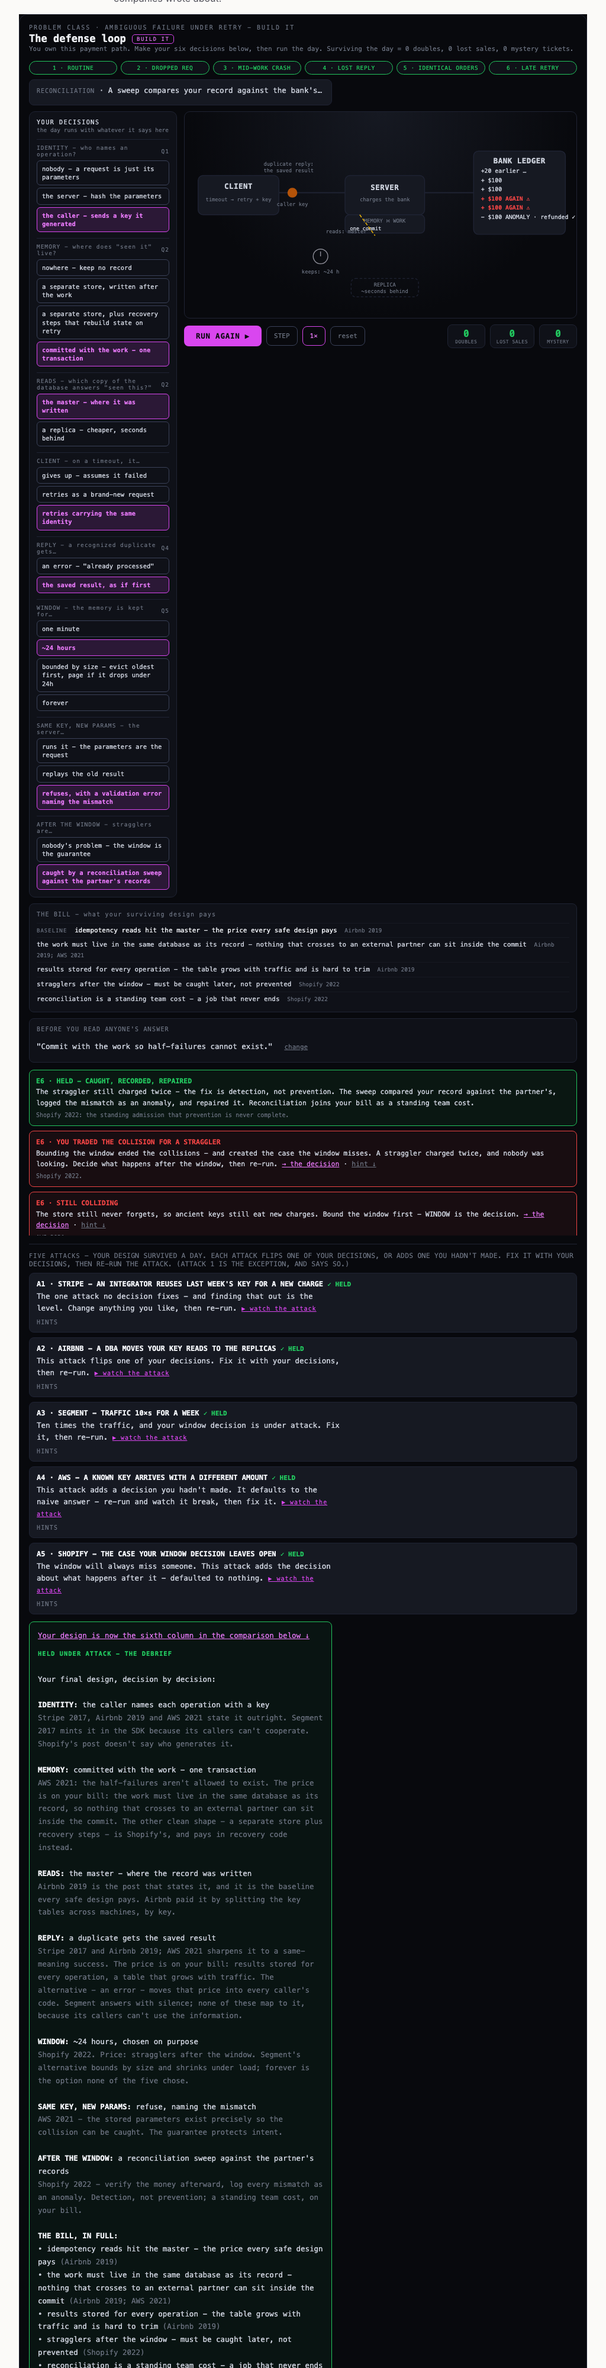
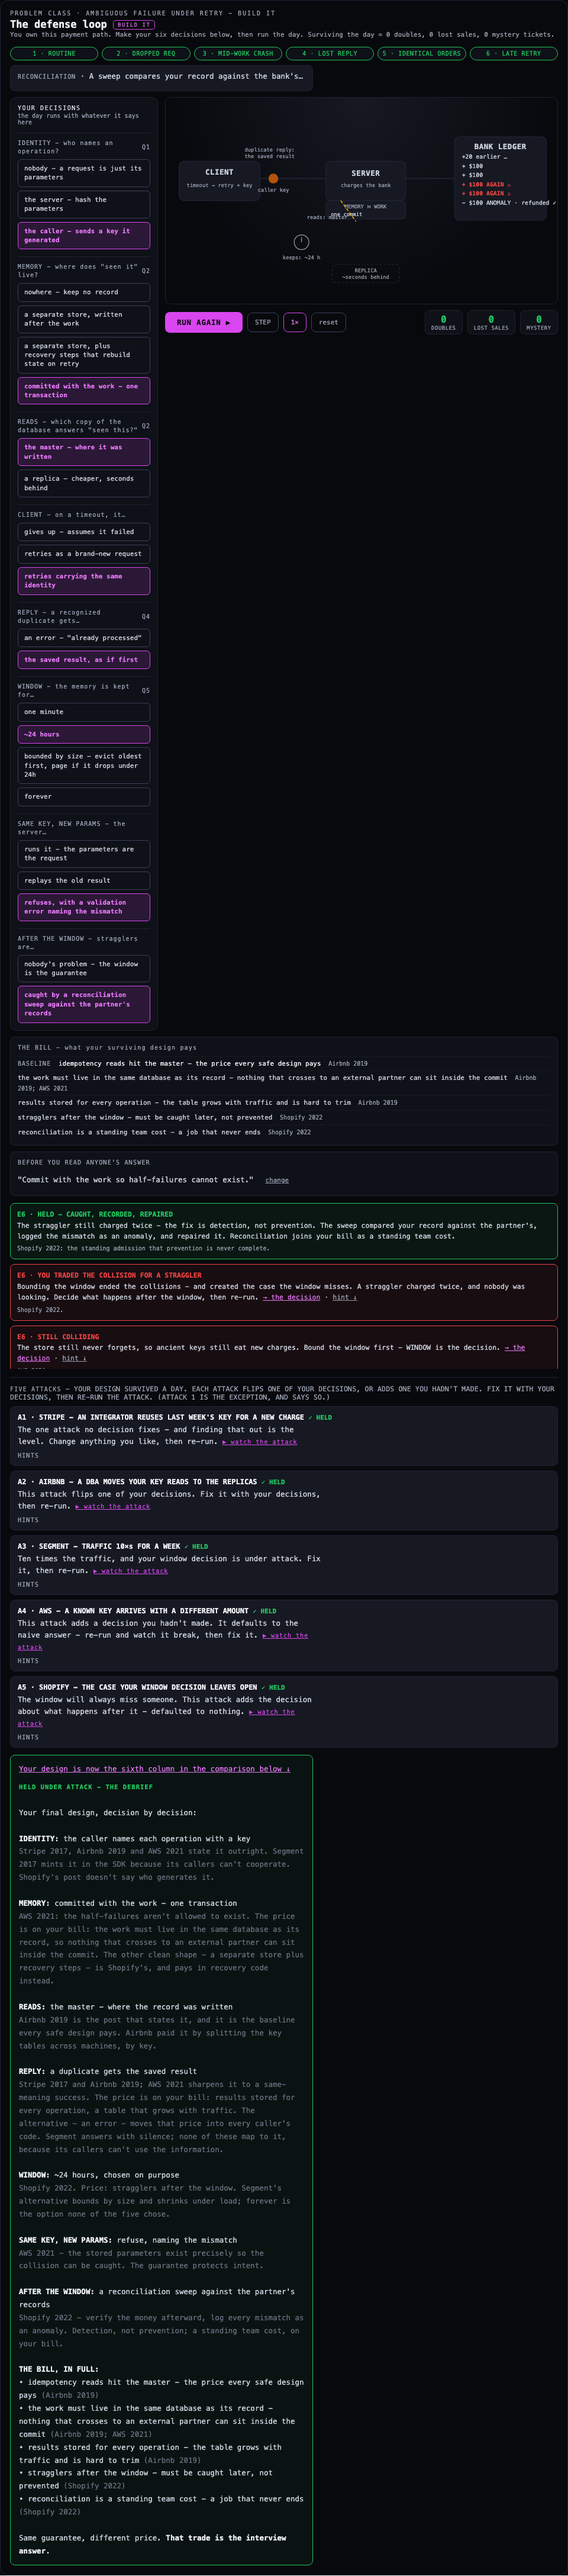
docs(problems): regenerate the v7.3 port screenshots; record the follow-up
Every artifact-state frame in handoff/screenshots/v7.3-port/ was blank: a
full-page Playwright capture does not paint an out-of-process sandboxed
iframe. The set is re-captured as element screenshots inside a viewport
tall enough for the element (phone mission frames keep the 780px viewport
so the 90dvh scrollport shows as a phone sees it), after the reset fix and
the legibility pass. README notes the method; the progress tracker records
the follow-up.

diff --git a/context/progress-tracker.md b/context/progress-tracker.md
@@ -4,6 +4,32 @@ Update this file after every meaningful implementation change.
 
 ## Current Phase
 
+- **Problem-page v7.3 port — follow-up: artifact spacing + legibility
+  (2026-09-06, branch `fix/problem-tryit-reset-specificity`, after PR #2
+  merged).** Owner reported the try-it looking off on the PR preview and
+  the mission's text hard to read.
+  - **Bug:** the try-it's CSS reset was scoped as `#tryit-root *`, an ID
+    selector that outranks every class rule, so every padding and margin
+    in the artifact collapsed to zero (the reference's reset is a bare
+    `*`). Both artifacts now reset through `:where(#…-root) *` (zero
+    specificity); the mission's reset also regains `margin: 0; padding: 0`
+    to mirror the reference. Try-it geometry now matches the reference at
+    1440 / 1024 / 390 (960×902 vs 960×909, the fallback font's line
+    metrics); the mission's only remaining height difference is the GATE
+    note and FREE PLAY that the rulings left out.
+  - **Legibility pass (design change, both artifacts, CSS values only):**
+    muted gray `#6B7280` (3.9:1 on `--art-surface`) → local `#98A1B0`
+    (7.2:1); HTML labels floored at 10px (meter captions 9px); locked /
+    disabled options at opacity 0.7 / 0.5 (were 0.55 / 0.35, about 2:1);
+    the decision deck gets 6px option gaps, 7×10px option padding, 12px
+    group spacing, and line-height 1.4 on wrapped group labels. Copy,
+    markup, engine, motion, and layout rules untouched; mission content
+    height 1314 → 1475px at 960. Recorded in `ui-context.md` (drift note)
+    and open decision #22.
+  - **Screenshots:** the committed `handoff/screenshots/v7.3-port/` frames
+    were blank for every artifact state (a full-page capture does not
+    paint an out-of-process sandboxed iframe); regenerated with element
+    captures in a viewport tall enough for the element.
 - **Problem-page v7.3 port — IMPLEMENTED (2026-09-06, branch
   `problem-page-v7-3-port`, one PR, six commits per the brief's split:
   shell · try-it · mission · host · list · tests/CI).**

diff --git a/handoff/screenshots/v7.3-port/README.md b/handoff/screenshots/v7.3-port/README.md
@@ -18,3 +18,10 @@ default path; state carries across the captures in order.
 
 Fonts are the fallback mono stack (no JetBrains Mono fetch inside the
 sandboxed frames), a recorded visual deviation from the reference build.
+
+Re-captured 2026-09-06 (branch `fix/problem-tryit-reset-specificity`) after
+the try-it reset fix and the legibility pass: every artifact-state frame is
+an element capture inside a viewport tall enough for it — a full-page
+capture leaves an out-of-process sandboxed iframe unpainted, which is why
+the first set was blank. The phone mission frames keep a 780px viewport so
+the 90dvh scrollport shows as a phone sees it.
